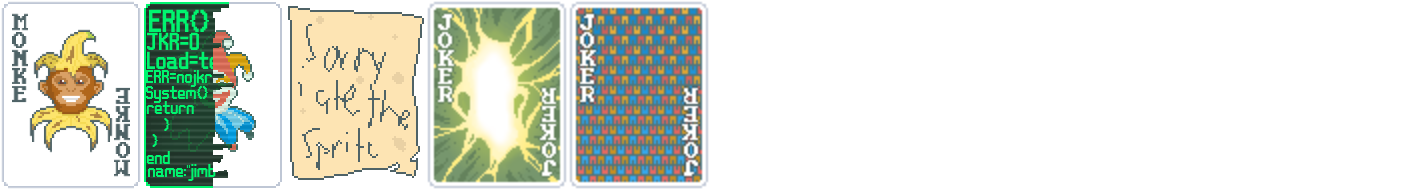
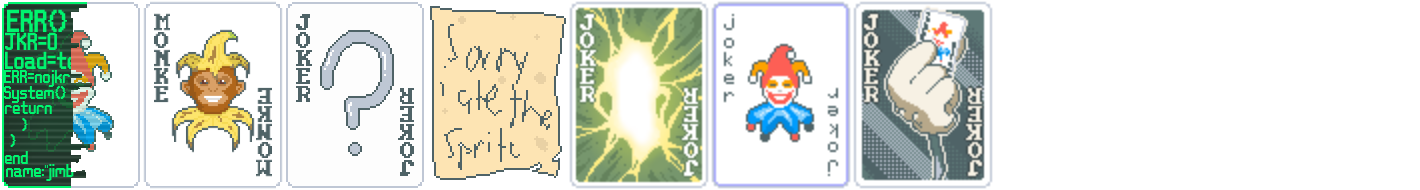
1.0.10
updated multiple jokers; card issues are listed.

diff --git a/README.md b/README.md
@@ -5,10 +5,18 @@ this is placeholder, very early on;
 
 currently added:
 
--placeholdername- add one retrigger to all odd cards for every boss blind beaten in one hand
+-placeholderretrigger- add one retrigger to all odd cards for every boss blind beaten in one hand
 
--placeholdername- 1.5x chips for each scored lucky 7
+-placeholdermonke- 1.5x chips for each scored lucky 7
 
-Trickster WIP- When card is destroyed while owning Illusion voucher, create a standard tag
+Trickster WIP- When card is destroyed while owning Illusion voucher, create a standard tag - does not repeat for hanged man or immolate yet
 
 Saving Grace- When game over destroy random joker and destroy self to prevent gaame over
+
+ai generated hand- +1 selection limit - does not give ascension or special hands yet
+
+the devil- free rerolls, but every reroll adds a playing card to your deck with every effect randomly selected
+
+oops all oops all 6s- all chances are randomized between 0 and 12
+
+vouchers are not ready but are still avaliable and coming! use banner mod to disable individual cards.
